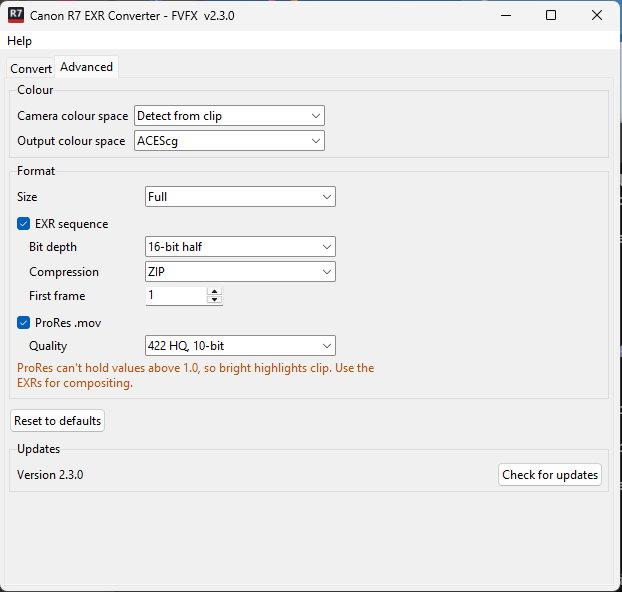
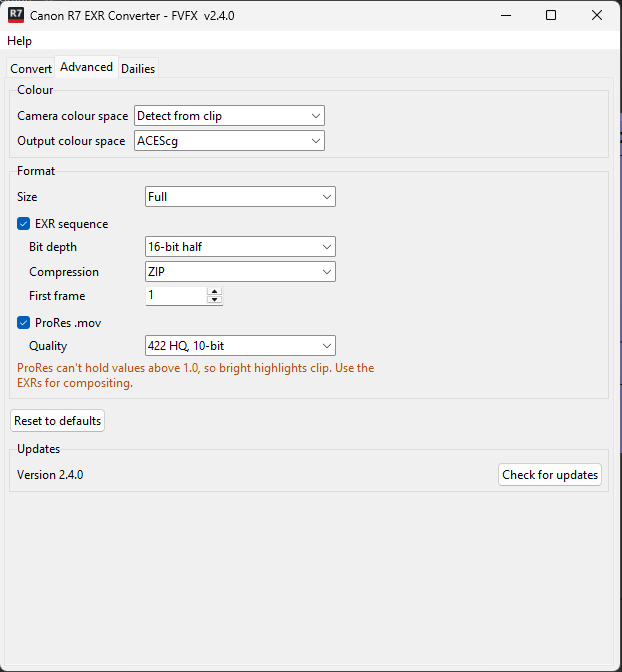
v2.4.0: choose dailies burn-ins, remove 720p

diff --git a/r7convert/ui.py b/r7convert/ui.py
@@ -253,22 +253,41 @@ class App(ttk.Frame):
         options.columnconfigure(1, weight=1)
         self.dailies_codec_var = self._combo(options, 0, "Format", list(dailies.CODECS))
         self.dailies_size_var = self._combo(options, 1, "Size", list(dailies.SIZES))
-        ttk.Label(options, text="Project name").grid(row=2, column=0, sticky="w", pady=2)
+        ttk.Label(options, foreground="#6b7280",
+                  text="Canon Log stays flat: no colour correction is applied.").grid(
+            row=2, column=0, columnspan=2, sticky="w", pady=(2, 0))
+
+        burn = ttk.LabelFrame(tab, text="Burn in", padding=PAD)
+        burn.grid(row=3, column=0, sticky="ew", pady=(PAD, 0))
+        burn.columnconfigure(1, weight=1)
+        self.dailies_name_on = tk.BooleanVar(value=True)
+        self.dailies_frame_on = tk.BooleanVar(value=True)
+        self.dailies_project_on = tk.BooleanVar(value=True)
         self.dailies_project_var = tk.StringVar()
-        ttk.Entry(options, textvariable=self.dailies_project_var, width=31).grid(
-            row=2, column=1, sticky="w", padx=(PAD, 0), pady=2
-        )
-        ttk.Label(options, foreground="#6b7280", wraplength=420, justify="left",
-                  text="Optional, shown bottom left. The clip name is burnt in bottom centre and "
-                       "the frame number bottom right. Canon Log stays flat: no colour correction."
-                  ).grid(row=3, column=0, columnspan=2, sticky="w", pady=(2, 0))
+        hint = {"foreground": "#6b7280"}
+        ttk.Checkbutton(burn, text="Clip name", variable=self.dailies_name_on).grid(
+            row=0, column=0, sticky="w", pady=1)
+        ttk.Label(burn, text="bottom centre", **hint).grid(row=0, column=1, sticky="w", padx=(PAD, 0))
+        ttk.Checkbutton(burn, text="Frame number", variable=self.dailies_frame_on).grid(
+            row=1, column=0, sticky="w", pady=1)
+        ttk.Label(burn, text="bottom right, e.g. 006 / 135", **hint).grid(
+            row=1, column=1, sticky="w", padx=(PAD, 0))
+        ttk.Checkbutton(burn, text="Project name", variable=self.dailies_project_on).grid(
+            row=2, column=0, sticky="w", pady=1)
+        project_row = ttk.Frame(burn)
+        project_row.grid(row=2, column=1, sticky="w", padx=(PAD, 0))
+        self.dailies_project_entry = ttk.Entry(project_row, textvariable=self.dailies_project_var, width=28)
+        self.dailies_project_entry.pack(side="left")
+        ttk.Label(project_row, text="  bottom left, hidden if empty", **hint).pack(side="left")
+        self.dailies_project_on.trace_add("write", lambda *_: self.dailies_project_entry.configure(
+            state="normal" if self.dailies_project_on.get() else "disabled"))
 
         self.dailies_summary_var = tk.StringVar(value="No clips added.")
-        ttk.Label(tab, textvariable=self.dailies_summary_var).grid(row=3, column=0, sticky="w", pady=(PAD, 0))
+        ttk.Label(tab, textvariable=self.dailies_summary_var).grid(row=4, column=0, sticky="w", pady=(PAD, 0))
         self.dailies_progress = ttk.Progressbar(tab, mode="determinate", maximum=1000)
-        self.dailies_progress.grid(row=4, column=0, sticky="ew", pady=(PAD, 0))
+        self.dailies_progress.grid(row=5, column=0, sticky="ew", pady=(PAD, 0))
         actions = ttk.Frame(tab)
-        actions.grid(row=5, column=0, sticky="ew", pady=(PAD, 0))
+        actions.grid(row=6, column=0, sticky="ew", pady=(PAD, 0))
         actions.columnconfigure(0, weight=1)
         self.dailies_status_var = tk.StringVar(value="Ready")
         ttk.Label(actions, textvariable=self.dailies_status_var).grid(row=0, column=0, sticky="w")
@@ -337,6 +356,9 @@ class App(ttk.Frame):
             codec=self.dailies_codec_var.get(),
             size=self.dailies_size_var.get(),
             project=self.dailies_project_var.get(),
+            burn_project=self.dailies_project_on.get(),
+            burn_name=self.dailies_name_on.get(),
+            burn_frame=self.dailies_frame_on.get(),
         )
 
     def refresh_dailies_summary(self) -> None:
@@ -785,8 +807,8 @@ def main() -> int:
             root.iconbitmap(default=str(icon))
         except tk.TclError:
             pass
-    root.geometry("620x520")
-    root.minsize(520, 440)
+    root.geometry("620x620")
+    root.minsize(520, 600)
     try:
         tools = Tools.discover()
     except ToolsMissing as error:

diff --git a/r7convert/dailies.py b/r7convert/dailies.py
@@ -39,7 +39,6 @@ CODECS: dict[str, tuple[list[str], str, list[str]]] = {
 # label -> (width, height); None uses the first clip's size.
 SIZES: dict[str, tuple[int, int] | None] = {
     "1920 x 1080": (1920, 1080),
-    "1280 x 720": (1280, 720),
     "Same as first clip": None,
 }
 
@@ -90,6 +89,10 @@ class DailiesSettings:
     codec: str = next(iter(CODECS))
     size: str = next(iter(SIZES))
     project: str = ""
+    # what to burn in; the project name also needs text to show
+    burn_project: bool = True
+    burn_name: bool = True
+    burn_frame: bool = True
 
 
 def output_format(clips: list[Clip], settings: DailiesSettings) -> tuple[int, int, Fraction]:
@@ -155,7 +158,7 @@ class DailiesMaker:
             shutil.copy2(_FONT, work / "arial.ttf")
         else:
             font = "font=Arial"
-        project = self.settings.project.strip()
+        project = self.settings.project.strip() if self.settings.burn_project else ""
         if project:
             (work / "project.txt").write_text(project, encoding="utf-8")
 
@@ -203,9 +206,11 @@ class DailiesMaker:
             f"pad={width}:{height}:(ow-iw)/2:(oh-ih)/2:color=black",
             "setsar=1",
             f"format={pix_fmt}",
-            f"drawtext={text}:textfile=name{index}.txt:expansion=none:x=(w-tw)/2",
-            f"drawtext={text}:textfile=frame{index}.txt:expansion=normal:x=w-tw-{margin}",
         ]
+        if self.settings.burn_name:
+            steps.append(f"drawtext={text}:textfile=name{index}.txt:expansion=none:x=(w-tw)/2")
+        if self.settings.burn_frame:
+            steps.append(f"drawtext={text}:textfile=frame{index}.txt:expansion=normal:x=w-tw-{margin}")
         if project:
             steps.append(f"drawtext={text}:textfile=project.txt:expansion=none:x={margin}")
         steps.append("setparams=range=tv:color_primaries=bt709:color_trc=bt709:colorspace=bt709")

diff --git a/r7convert/convert.py b/r7convert/convert.py
@@ -21,7 +21,6 @@ from .media import Clip, Tools, pack_timecode, probe, _NO_WINDOW
 RESOLUTIONS: dict[str, int | None] = {
     "Full": None,
     "1920 wide": 1920,
-    "1280 wide": 1280,
 }
 
 BIT_DEPTHS: dict[str, str] = {

diff --git a/r7convert/__init__.py b/r7convert/__init__.py
@@ -1,3 +1,3 @@
 """Canon R7 EXR Converter - FVFX."""
 
-__version__ = "2.3.0"
+__version__ = "2.4.0"

diff --git a/docs/dailies.md b/docs/dailies.md
@@ -7,11 +7,12 @@ burnt into the picture. Use them to share a day's footage or review takes.
 
 | Where | What |
 |---|---|
-| Bottom left | Your project name (only if you fill it in) |
+| Bottom left | Your project name |
 | Bottom centre | The clip's file name |
 | Bottom right | Frame number and the clip's total frames, e.g. `006 / 135` |
 
-The text is Arial, on a 50% black box. The frame counter restarts at 1 for each clip.
+Each one can be switched on or off. The text is Arial, on a 50% black box, and
+the frame counter restarts at 1 for each clip.
 
 ## Making dailies
 
@@ -26,10 +27,12 @@ The text is Arial, on a 50% black box. The frame counter restarts at 1 for each 
     | Option | Choices |
     |---|---|
     | Format | **H.264** (default: small, plays anywhere), ProRes 422 HQ, ProRes 422, ProRes 422 LT |
-    | Size | **1920 x 1080** (default), 1280 x 720, Same as first clip |
-    | Project name | Optional text for the bottom left |
+    | Size | **1920 x 1080** (default), Same as first clip |
 
-5. Click **Make dailies**. When it's done, the app offers to play the file.
+5. Under **Burn in**, tick what should appear in the picture. All three are on
+   by default. Type a **Project name** to show it bottom left; if the box is
+   empty, or its tick is off, nothing is shown there.
+6. Click **Make dailies**. When it's done, the app offers to play the file.
 
 The line above the progress bar shows the length and estimated file size.
 

diff --git a/CHANGELOG.md b/CHANGELOG.md
@@ -1,5 +1,13 @@
 # Changelog
 
+## 2.4.0
+
+- Dailies: choose what is burnt in. Clip name, frame number and project name
+  each have their own tick box on the new Burn in section.
+- 720p removed: the Convert size options are Full and 1920 wide, and the
+  Dailies sizes are 1920 x 1080 and Same as first clip.
+- The window opens taller, so every Dailies control fits.
+
 ## 2.3.0
 
 - Optional ProRes .mov output, alongside the EXRs or instead of them (Advanced

diff --git a/docs/advanced.md b/docs/advanced.md
@@ -24,7 +24,7 @@ your pipeline asks for something else, and read the files in Nuke to match
 
 ## Format
 
-**Size** applies to every format: Full, 1920 wide or 1280 wide. The aspect
+**Size** applies to every format: Full or 1920 wide. The aspect
 ratio is kept, and downscaling happens in linear light so highlights keep their
 energy.
 
